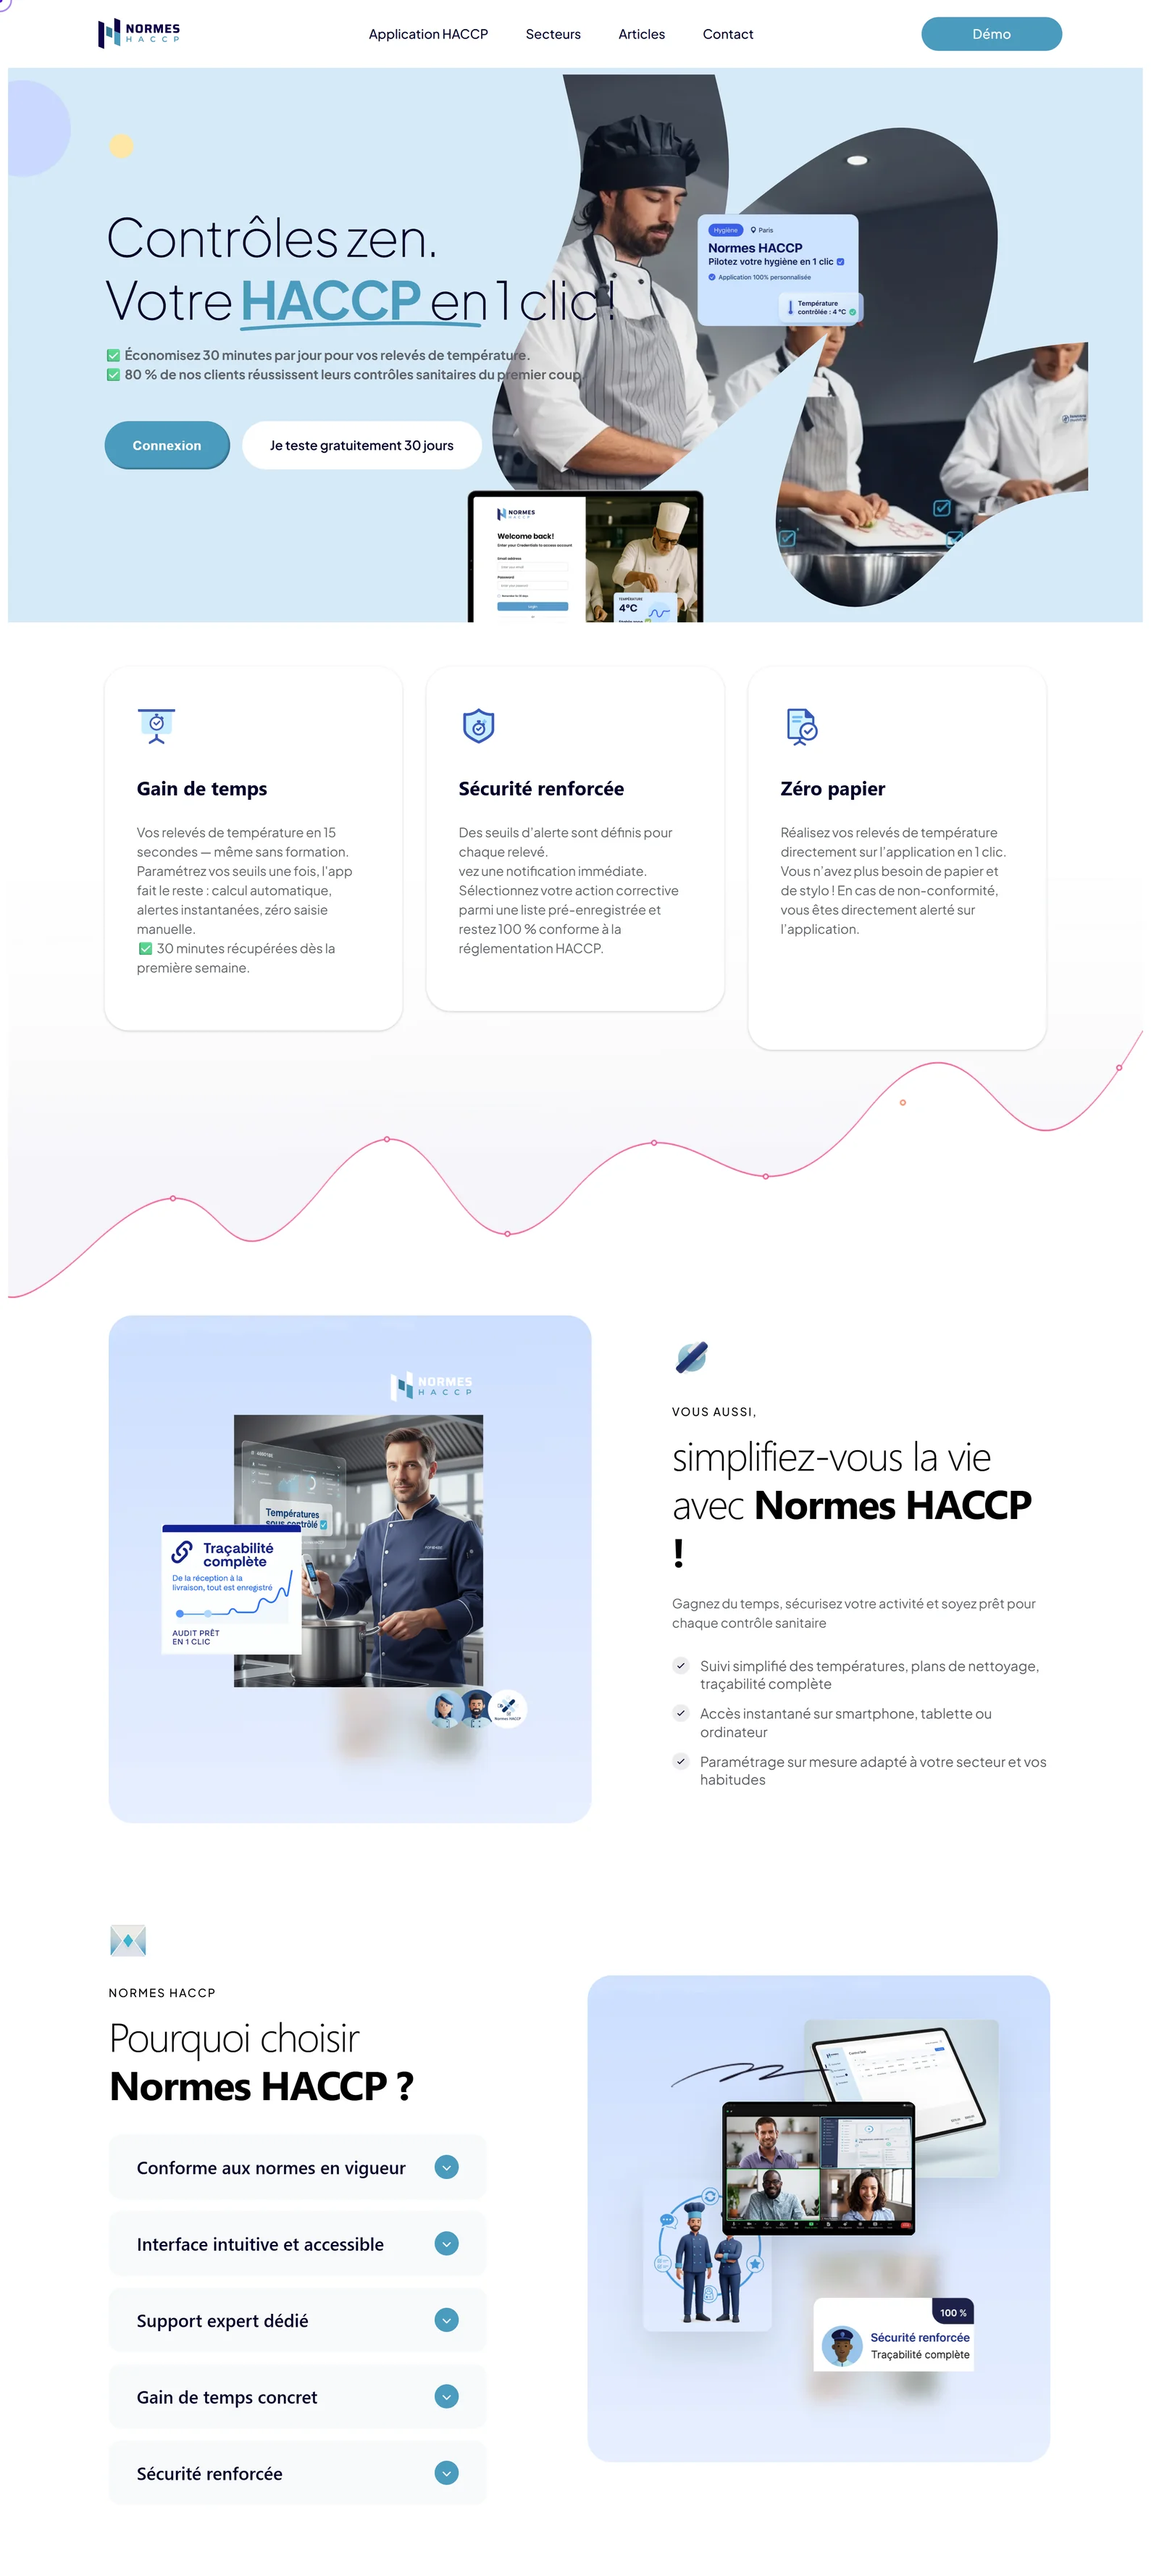
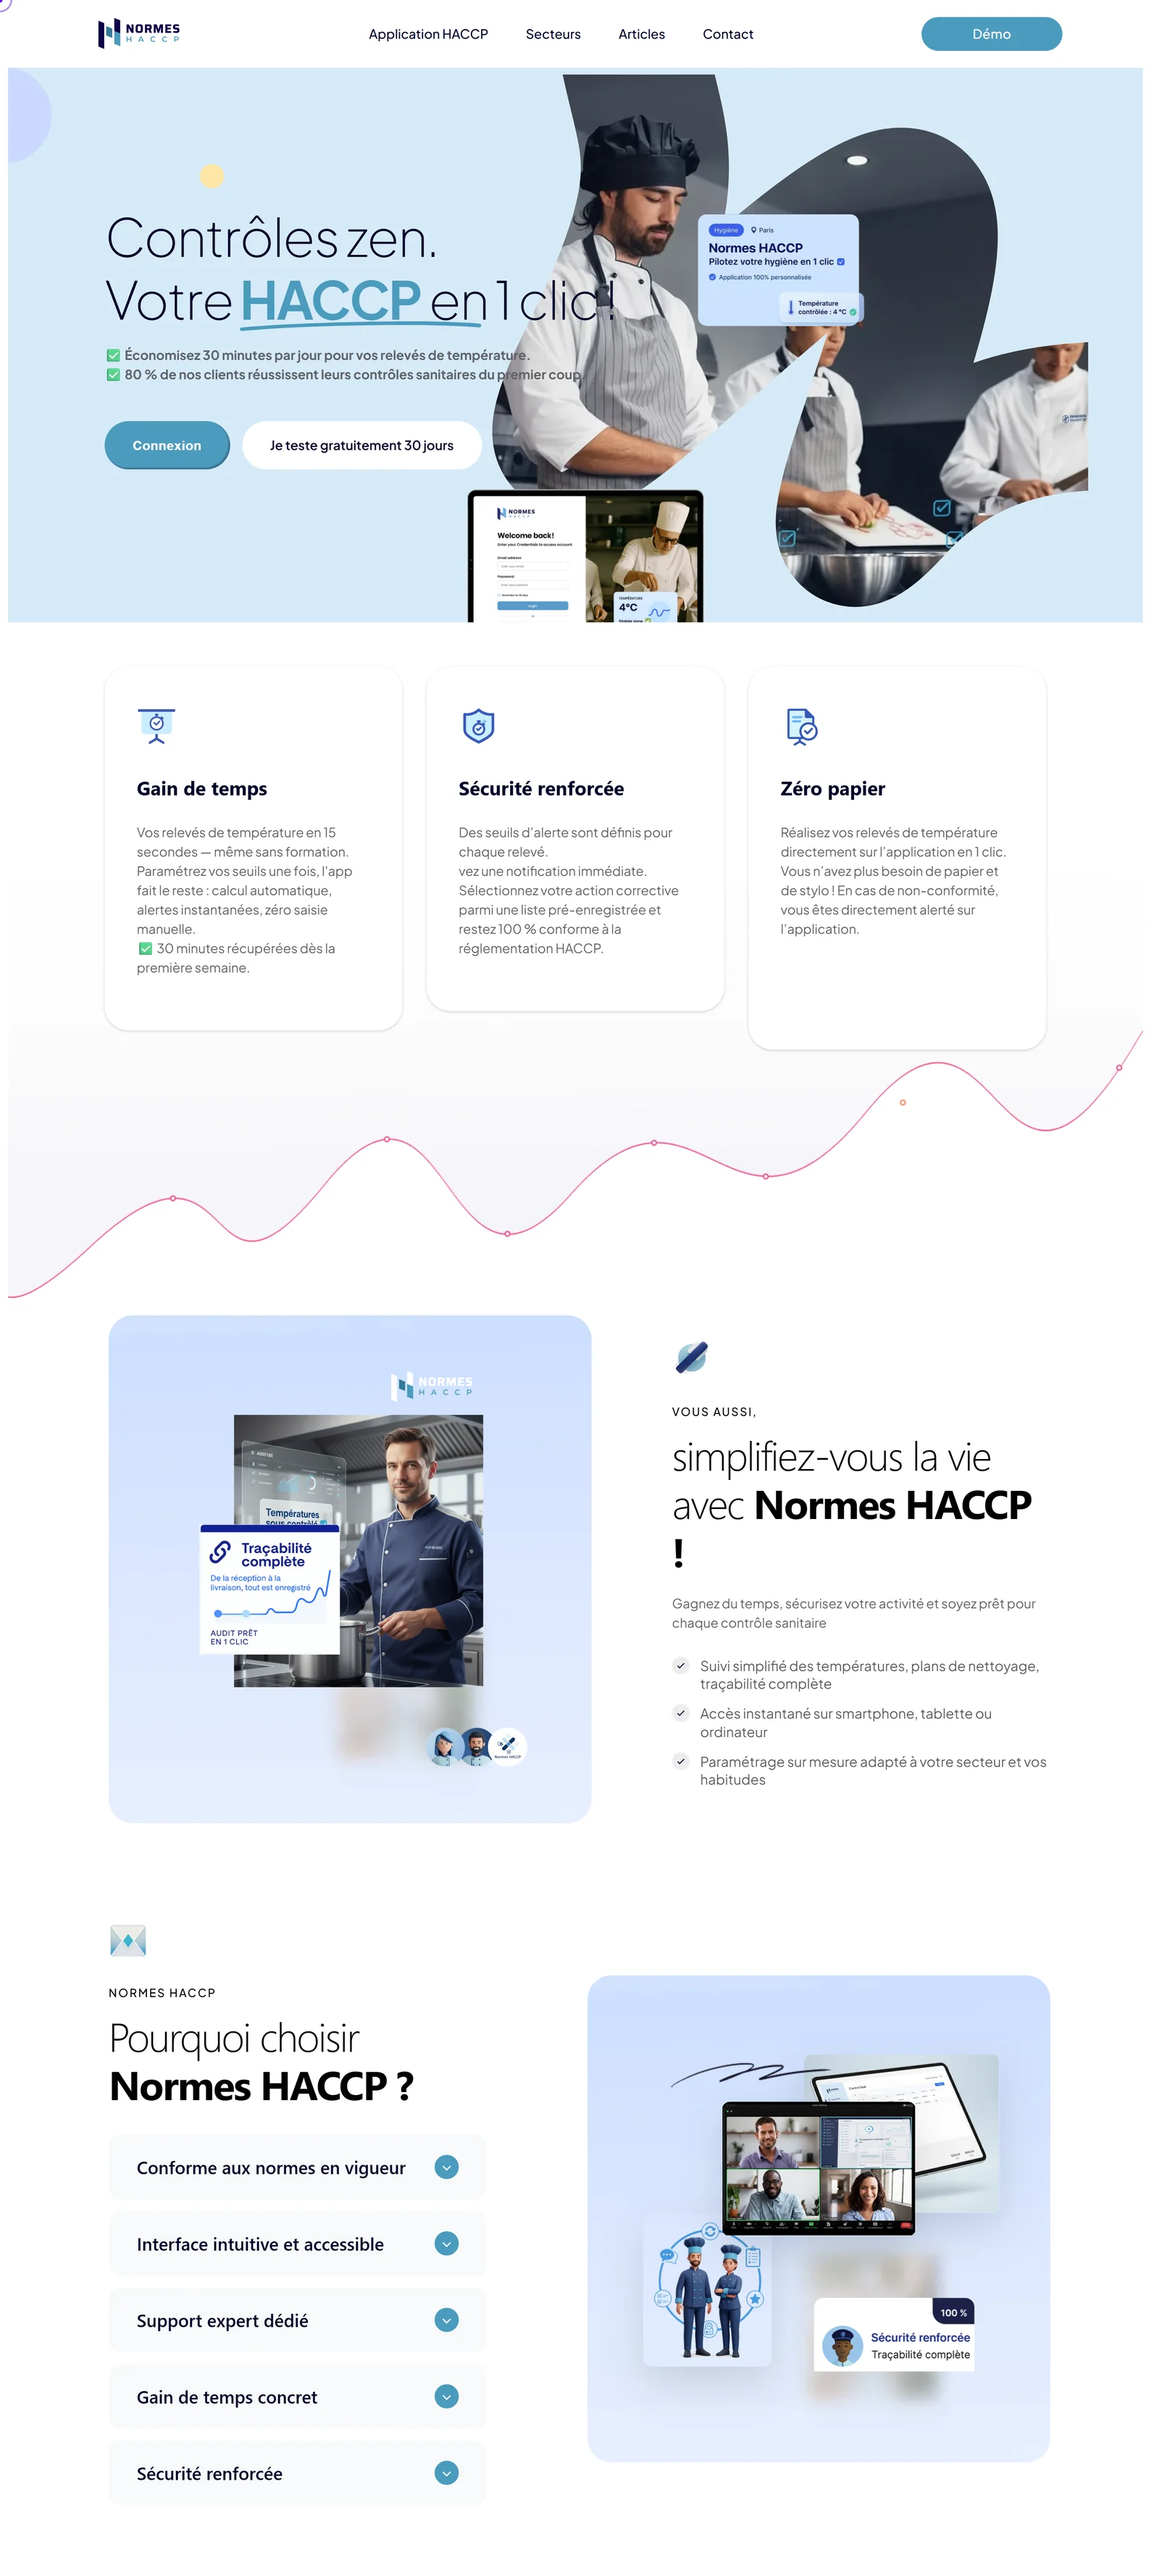
Add the AGRI 4.0 project with a fresh capture of the live site (EN/FR)

diff --git a/src/data/content.ts b/src/data/content.ts
@@ -211,6 +211,19 @@ export const featuredProjects: Project[] = [
 /** The rest of the slides. Descriptions only state what the site shows. */
 export const moreProjects: Project[] = [
   {
+    label: 'agri40.tech',
+    url: 'https://agri40.tech',
+    image: '/images/projects/agri-40.webp',
+    imageAlt: 'Full-page screenshot of the AGRI 4.0 smart agriculture website',
+    accent: 'emerald',
+    category: 'AgriTech // WordPress Website',
+    title: 'AGRI 4.0 — AgriTech Website',
+    description:
+      'Website for a company in smart agriculture technology. Customised WordPress theme with Elementor and custom code, on-page SEO, and an automated Make.com workflow that writes and publishes blog posts to WordPress.',
+    tags: ['WordPress', 'Elementor', 'Make.com', 'SEO'],
+    siteIcon: 'globe',
+  },
+  {
     label: 'Garage RKJ',
     image: '/images/projects/garage-rkj.webp',
     imageAlt: 'Full-page screenshot of the Garage RKJ car repair website',

diff --git a/src/i18n/content.ts b/src/i18n/content.ts
@@ -123,6 +123,14 @@ const frProjects: Overlay<base.Project> = [
     tags: ['WordPress', 'SEO', 'Automatisation', 'Systèmes métier'],
   },
   {
+    imageAlt: 'Capture pleine page du site AGRI 4.0, entreprise de technologies agricoles intelligentes',
+    category: 'AgriTech // Site WordPress',
+    title: 'AGRI 4.0 — Site Web AgriTech',
+    description:
+      'Site d’une entreprise spécialisée dans les technologies agricoles intelligentes. Thème WordPress personnalisé avec Elementor et code sur mesure, SEO on-page, et un workflow Make.com qui rédige et publie automatiquement les articles de blog sur WordPress.',
+    tags: ['WordPress', 'Elementor', 'Make.com', 'SEO'],
+  },
+  {
     imageAlt: 'Capture pleine page du site du garage automobile Garage RKJ',
     category: 'Site vitrine // Garage automobile',
     description:
